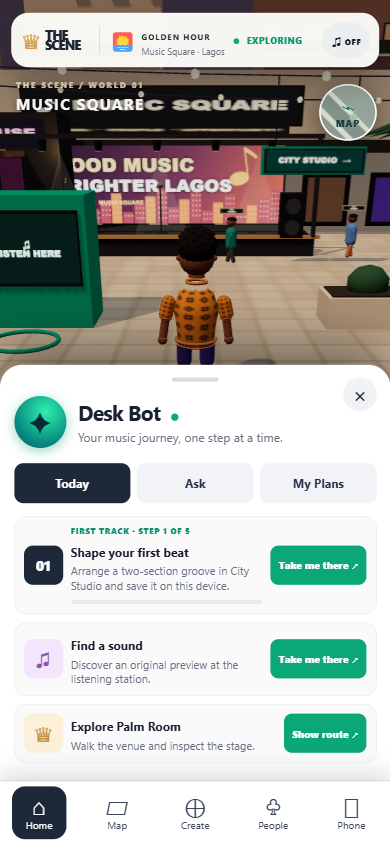
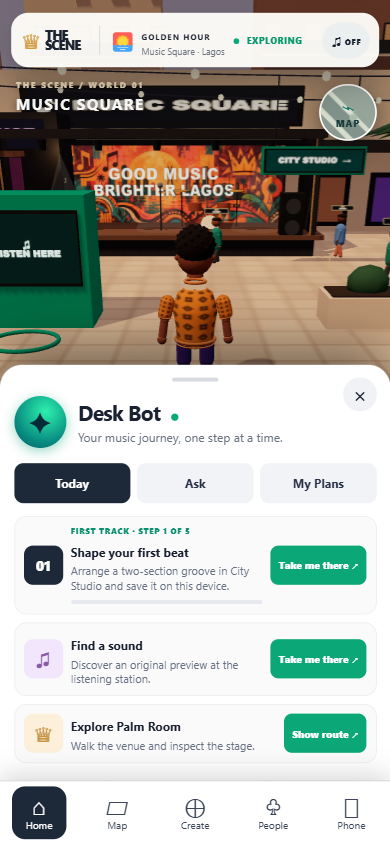
Add authored Music Square stage mural

diff --git a/app/src/world.ts b/app/src/world.ts
@@ -1,4 +1,5 @@
 import * as THREE from 'three'
+import musicSquareMuralUrl from './assets/music-square-mural.webp'
 import { instanceStaticBoxes } from './instanceBoxes.ts'
 import { createAmbientPedestrian, createServiceNpc, updateAmbientPedestrian, updateServiceNpc } from './serviceNpc.ts'
 import { MUSIC_SQUARE_AMBIENT_WALKERS, sampleAmbientWalker } from './ambientNpcMotion.ts'
@@ -47,57 +48,21 @@ function sign(parent: THREE.Group, lines: string[], width: number, height: numbe
   lines.forEach((line, i) => ctx.fillText(line, canvas.width / 2, start + lineHeight * i, canvas.width - 70))
   const texture = new THREE.CanvasTexture(canvas)
   texture.colorSpace = THREE.SRGBColorSpace
-  const mesh = new THREE.Mesh(new THREE.PlaneGeometry(width, height), new THREE.MeshBasicMaterial({ map: texture }))
+  const mesh = new THREE.Mesh(new THREE.PlaneGeometry(width, height), new THREE.MeshBasicMaterial({ map: texture, transparent: true }))
   mesh.position.set(x, y, z)
   parent.add(mesh)
   return mesh
 }
 
 function squareMural(parent: THREE.Group) {
-  const canvas = document.createElement('canvas')
-  canvas.width = 1024
-  canvas.height = 360
-  const c = canvas.getContext('2d')!
-  const wash = c.createLinearGradient(0, 0, 1024, 360)
-  wash.addColorStop(0, '#33243b')
-  wash.addColorStop(.55, '#71405a')
-  wash.addColorStop(1, '#c46652')
-  c.fillStyle = wash
-  c.fillRect(0, 0, 1024, 360)
-  // Original painted skyline and rhythmic blocks, not a concept image texture.
-  for (let i = 0; i < 22; i++) {
-    const x = i * 49 - 10
-    const h = 46 + (i * 37 % 125)
-    c.fillStyle = i % 3 === 0 ? '#db8a5f' : '#a75666'
-    c.fillRect(x, 360 - h, 43, h)
-    c.fillStyle = '#f2ad70'
-    for (let y = 360 - h + 14; y < 340; y += 24) for (let wx = x + 8; wx < x + 42; wx += 15) c.fillRect(wx, y, 5, 7)
-  }
-  c.save()
-  c.translate(790, 145)
-  c.rotate(-.13)
-  c.fillStyle = '#f5b66c'
-  c.font = '900 170px Arial'
-  c.fillText('♪', 0, 0)
-  c.restore()
-  c.textAlign = 'left'
-  c.shadowColor = '#211622'
-  c.shadowBlur = 13
-  c.fillStyle = '#ffe2a0'
-  c.font = '900 82px Arial'
-  c.fillText('GOOD MUSIC', 46, 116)
-  c.fillStyle = '#ffffff'
-  c.font = '900 76px Arial'
-  c.fillText('BRIGHTER LAGOS', 46, 208)
-  c.shadowBlur = 0
-  c.fillStyle = '#ffc996'
-  c.font = '700 25px Arial'
-  c.fillText('THE SCENE  •  MUSIC SQUARE', 50, 268)
-  const texture = new THREE.CanvasTexture(canvas)
+  // Original mural art is a texture on the physical stage wall, never a flattened scene.
+  const texture = new THREE.TextureLoader().load(musicSquareMuralUrl)
   texture.colorSpace = THREE.SRGBColorSpace
-  const mural = new THREE.Mesh(new THREE.PlaneGeometry(11.4, 3.45), new THREE.MeshBasicMaterial({ map: texture }))
+  texture.anisotropy = 4
+  const mural = new THREE.Mesh(new THREE.PlaneGeometry(11.4, 3.45), new THREE.MeshStandardMaterial({ map: texture, roughness: 1, emissive: '#523824', emissiveIntensity: .16 }))
   mural.position.set(-5.5, 2.55, -12.7)
   parent.add(mural)
+  sign(parent, ['GOOD MUSIC', 'BRIGHTER LAGOS'], 7.2, 2.05, -5.5, 2.65, -12.58, { bg: 'rgba(0,0,0,0)', ink: '#fff4d8', size: 102 })
 }
 
 function tileFloor(parent: THREE.Group, width: number, depth: number, color: string, grout: string) {
@@ -215,6 +180,20 @@ function microphone(parent: THREE.Group, x: number, z: number) {
   cylinder(parent, .3, .3, .04, black, x, .73, z)
 }
 
+function drumKit(parent: THREE.Group, x: number, z: number) {
+  const shell = mat('#8d4e35', .2)
+  const cymbal = mat('#d4a85e', .72)
+  cylinder(parent, .5, .5, .48, shell, x, 1.05, z, 18)
+  const drumFace = new THREE.Mesh(new THREE.CircleGeometry(.41, 20), mat('#f4e9d1'))
+  drumFace.position.set(x, 1.05, z + .505)
+  parent.add(drumFace)
+  for (const side of [-1, 1]) {
+    cylinder(parent, .3, .3, .34, shell, x + side * .65, 1.75, z - .25, 14)
+    cylinder(parent, .025, .03, 1.72, black, x + side * 1.25, 1.55, z -.3, 6)
+    cylinder(parent, .36, .36, .045, cymbal, x + side * 1.25, 2.42, z -.3, 16)
+  }
+}
+
 // Cheap, authored festoon lighting gives the square its evening street identity.
 // Bulbs share materials and geometry; only the existing street lamps cast light.
 function festoon(parent: THREE.Group, from: [number, number, number], to: [number, number, number], count = 15) {
@@ -287,6 +266,7 @@ export function makeSquare() {
     box(root, 1.98, 2.23, .09, i % 3 ? mat('#a3775b') : violet, x, 1.65, -16.24)
   }
   box(root, 13, .75, 4.7, charcoal, -5.5, .37, -10.5)
+  box(root, 13.7, .19, 5.2, wood, -5.5, .78, -10.5)
   box(root, 13.4, .15, .18, brass, -5.5, .8, -8.1)
   box(root, 11.6, 3.4, .18, mat('#3d263a'), -5.5, 2.55, -12.84)
   squareMural(root)
@@ -303,6 +283,19 @@ export function makeSquare() {
   speaker(root, -11, 1.63, -8.35, 1.05)
   speaker(root, 0, 1.63, -8.35, 1.05)
   microphone(root, -5.5, -9.7)
+  drumKit(root, -3.35, -10.65)
+  // Framed stage depth: side wings, warm trims, and a visible backstage opening.
+  for (const x of [-12.05, 1.05]) {
+    box(root, .35, 4.1, 3.4, charcoal, x, 2.75, -10.75)
+    box(root, .08, 3.85, .18, brass, x + (x < 0 ? .22 : -.22), 2.68, -8.2)
+  }
+  box(root, 13.4, .3, 4.9, charcoal, -5.5, 4.68, -10.55)
+  for (const x of [-11.75, -7.7, -3.4, .7]) {
+    const downlight = new THREE.Mesh(new THREE.CircleGeometry(.13, 10), new THREE.MeshBasicMaterial({ color: '#ffe6b7' }))
+    downlight.rotation.x = -Math.PI / 2
+    downlight.position.set(x, 4.5, -8.65)
+    root.add(downlight)
+  }
   const performer = createAmbientPedestrian(1)
   performer.position.set(-10.1, .75, -10.5)
   performer.rotation.y = Math.PI

diff --git a/app/src/lighting.ts b/app/src/lighting.ts
@@ -31,15 +31,15 @@ export const LIGHTING_PRESETS: Record<LightingMode, LightingPreset> = {
   golden: {
     label: 'GOLDEN HOUR',
     icon: '🌅',
-    background: '#413243',
-    fog: '#413243',
-    skyColor: '#d9e2ed',
-    groundColor: '#72523d',
-    ambientIntensity: 1.9,
-    sunColor: '#ffd9ad',
-    sunIntensity: 2.0,
+    background: '#998b9b',
+    fog: '#827584',
+    skyColor: '#f3d8d6',
+    groundColor: '#82634e',
+    ambientIntensity: 2.15,
+    sunColor: '#ffd3a2',
+    sunIntensity: 2.4,
     sunPos: [-8, 16, 9],
-    exposure: 1.16,
+    exposure: 1.12,
   },
   night: {
     label: 'NIGHT VIBE',

diff --git a/M0_PROGRESS.md b/M0_PROGRESS.md
@@ -511,3 +511,4 @@ Added an integration test that connects 20 real WebSocket test clients to an iso
 - Gave the open Desk a separate third-person camera framing. At phone size the avatar, kiosk and live stage remain visible above the Today panel (`docs/evidence/music-square-desk-mobile.png`), while closing Desk restores the closer exploration view.
 - Added a suspended City Studio arrow within the actual plaza, visible from spawn in both camera modes. It points toward the existing walkable Studio entrance and avoids made-up distance or travel-time claims.
 - Published the solo preview to `https://musicdistrict.netlify.app/` (Netlify deploy `6ad21a142dddc92db7e5b04b`). Opened the deployed game in headed Edge at 390 × 844: 3D canvas present, no page errors, reaction tray toggled and Desk opened. Live captures: `docs/evidence/netlify-music-square-clean-mobile.png` and `docs/evidence/netlify-music-square-desk-mobile.png`. The separate multiplayer Node/WebSocket runtime is still not hosted by Netlify.
+- Added an original authored Music Square mural as a compressed 186 KB texture on the real stage wall, retaining separate 3D stage geometry and a text overlay. Added stage depth and a drum kit, and changed the default dusk palette to a lighter Lagos evening. Browser capture at 390 × 844 shows the new wall art and no page errors. Asset provenance is in `app/src/assets/README.md`. This improves the focal area, but the overall facade and avatar are still stylized blockouts compared with V26.

diff --git a/app/src/assets/README.md b/app/src/assets/README.md
@@ -1,0 +1,5 @@
+# Runtime art provenance
+
+| Asset | Source | Use | Format / size | Geometry | Notes |
+|---|---|---|---|---|---|
+| `music-square-mural.webp` | Original image generated for THE SCENE on 16 October 2026; no external artwork or screenshot pixels | Music Square stage wall | 1536 × 512 WebP, 185,924 bytes | One textured quad, two triangles, one material | Decorative only; overlay slogan remains separate game geometry. No characters, music, logos or third-party tracks. |
